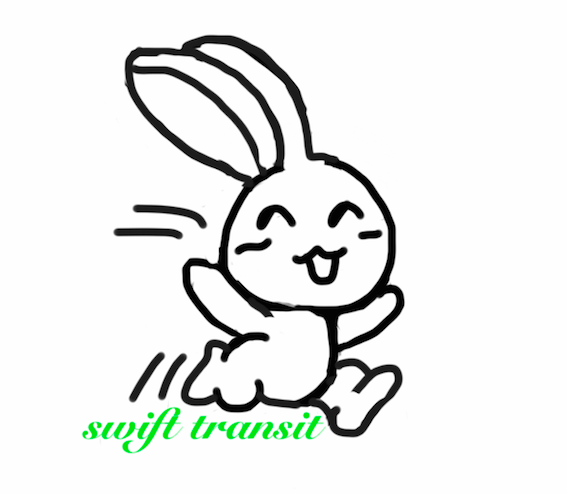
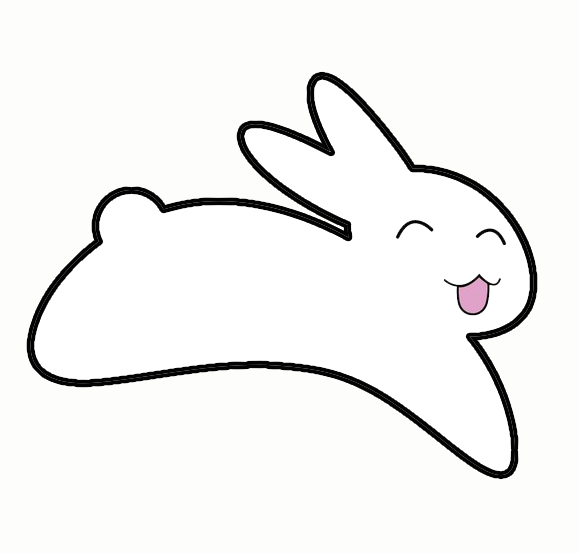
replace swifttransit image

diff --git a/db/migrate/20140726182038_create_ckeditor_assets.rb b/db/migrate/20140726182038_create_ckeditor_assets.rb
@@ -1,0 +1,28 @@
+=begin
+class CreateCkeditorAssets < ActiveRecord::Migration
+  def self.up
+    create_table :ckeditor_assets do |t|
+      t.string  :data_file_name, :null => false
+      t.string  :data_content_type
+      t.integer :data_file_size
+
+      t.integer :assetable_id
+      t.string  :assetable_type, :limit => 30
+      t.string  :type, :limit => 30
+
+      # Uncomment	it to save images dimensions, if your need it
+      t.integer :width
+      t.integer :height
+
+      t.timestamps
+    end
+
+    add_index "ckeditor_assets", ["assetable_type", "type", "assetable_id"], :name => "idx_ckeditor_assetable_type"
+    add_index "ckeditor_assets", ["assetable_type", "assetable_id"], :name => "idx_ckeditor_assetable"
+  end
+
+  def self.down
+    drop_table :ckeditor_assets
+  end
+end
+=end
